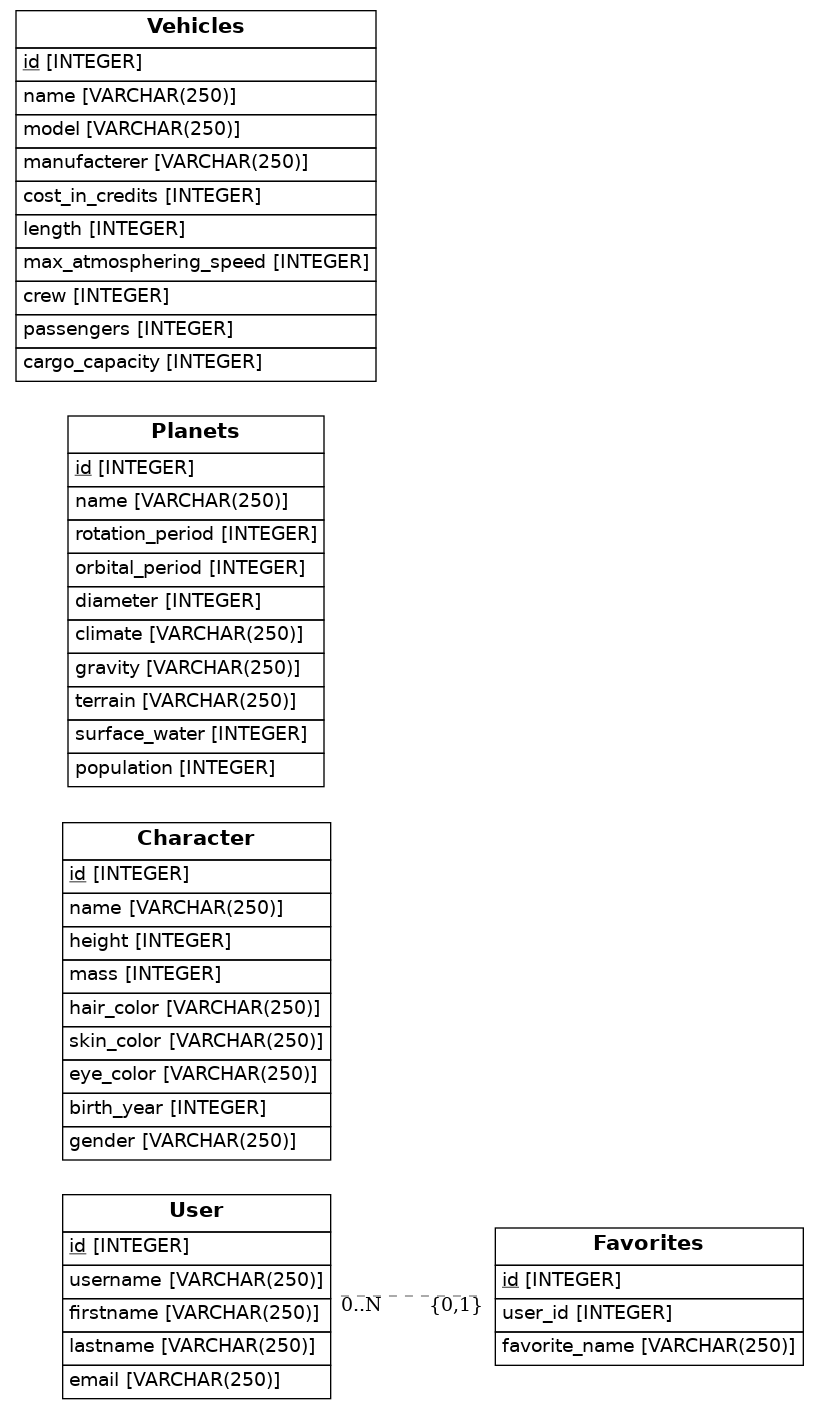
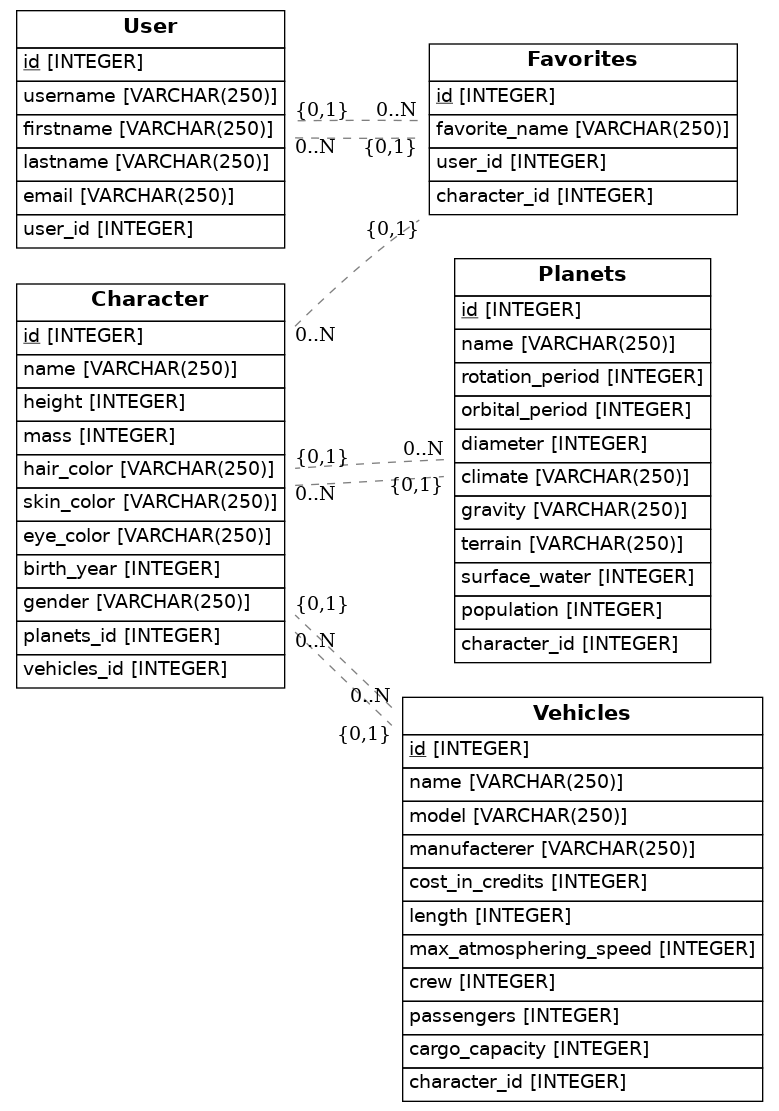
done

Changed region(s): [[0.0, 0.0, 0.9859, 1.0]]

diff --git a/src/models.py b/src/models.py
@@ -16,6 +16,8 @@ class User(Base):
     firstname = Column(String(250), nullable=False)
     lastname = Column(String(250), nullable=False)
     email = Column(String(250), nullable=False)
+    user_id = Column(ForeignKey('Favorites.id'))
+
 
 
 class Character(Base):
@@ -29,6 +31,8 @@ class Character(Base):
     eye_color = Column(String(250), nullable=True)
     birth_year = Column(Integer, nullable=True)
     gender = Column(String(250), nullable=True)
+    planets_id = Column(ForeignKey('Planets.id'))
+    vehicles_id = Column(ForeignKey('Vehicles.id'))
 
 
 class Planets(Base):
@@ -43,6 +47,7 @@ class Planets(Base):
     terrain = Column(String(250), nullable=True)
     surface_water = Column(Integer, nullable=True)
     population = Column(Integer, nullable=True)
+    character_id = Column(ForeignKey('Character.id'))
 
 
 class Vehicles(Base):
@@ -57,13 +62,15 @@ class Vehicles(Base):
     crew = Column(Integer, nullable=True)
     passengers = Column(Integer, nullable=True)
     cargo_capacity = Column(Integer, nullable=True)
+    character_id = Column(ForeignKey('Character.id'))
 
 
 class Favorites(Base):
     __tablename__ = 'Favorites'
     id = Column(Integer, primary_key=True)
-    user_id = Column(ForeignKey('User.id'))
     favorite_name = Column(String(250), nullable=False)
+    user_id = Column(ForeignKey('User.id'))
+    character_id = Column(ForeignKey('Character.id'))
 
     def to_dict(self):
         return {}
